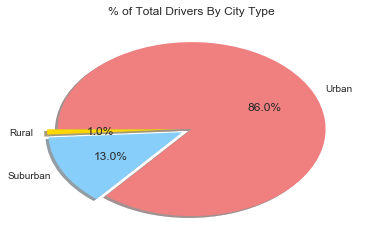
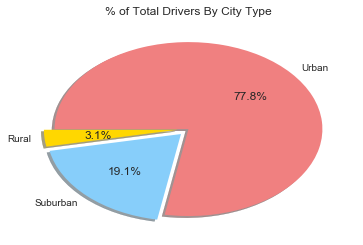
Updated file

diff --git a/Read.md b/Read.md
@@ -1,10 +1,13 @@
 
 # Pyber Ride Sharing
 
-Trend1: Urban cities have highest number of ride counts (68.4%) as well as driver counts (86%). Also these cities have the lowest
-average fare. 
-Trend2: A city in Rural area has the highest average dollar fare ($50) and the lowest number of rides (1).
-Trend3: higher number of drivers will increade the number of rides and will eventually reduce the fare.
+Trend1: Urban cities have highest number of ride counts (68.4%) as well as driver counts (77.8%). Also these cities have the lowest average fare. 
+
+Trend2: Rural area has the highest average dollar fare ($50) and the lowest number of rides (1).
+
+Trend3: Higher number of drivers will increase the number of rides and will eventually reduce the fare.
+
+Observation: City data set has a duplicate record (city of Port James) which needs to be merged and summed on driver count before merging with ride data.
 
 # Analysis
 
@@ -119,7 +122,83 @@ avg_fare = merged_data.groupby(['city_type','city','driver_count']).mean()['fare
 total_ride = merged_data.groupby(['city_type','city','driver_count']).nunique()['ride_id']
 # create a dataframe to have average fare and total ride count
 ride_share = pd.DataFrame({"Average Fare ($)" : avg_fare, "Total Number of Rides": total_ride}).reset_index()
+ride_share.head()
 ```
+
+
+
+
+<div>
+<style>
+    .dataframe thead tr:only-child th {
+        text-align: right;
+    }
+
+    .dataframe thead th {
+        text-align: left;
+    }
+
+    .dataframe tbody tr th {
+        vertical-align: top;
+    }
+</style>
+<table border="1" class="dataframe">
+  <thead>
+    <tr style="text-align: right;">
+      <th></th>
+      <th>city_type</th>
+      <th>city</th>
+      <th>driver_count</th>
+      <th>Average Fare ($)</th>
+      <th>Total Number of Rides</th>
+    </tr>
+  </thead>
+  <tbody>
+    <tr>
+      <th>0</th>
+      <td>Rural</td>
+      <td>East Leslie</td>
+      <td>9</td>
+      <td>33.660909</td>
+      <td>11</td>
+    </tr>
+    <tr>
+      <th>1</th>
+      <td>Rural</td>
+      <td>East Stephen</td>
+      <td>6</td>
+      <td>39.053000</td>
+      <td>10</td>
+    </tr>
+    <tr>
+      <th>2</th>
+      <td>Rural</td>
+      <td>East Troybury</td>
+      <td>3</td>
+      <td>33.244286</td>
+      <td>7</td>
+    </tr>
+    <tr>
+      <th>3</th>
+      <td>Rural</td>
+      <td>Erikport</td>
+      <td>3</td>
+      <td>30.043750</td>
+      <td>8</td>
+    </tr>
+    <tr>
+      <th>4</th>
+      <td>Rural</td>
+      <td>Hernandezshire</td>
+      <td>10</td>
+      <td>32.002222</td>
+      <td>9</td>
+    </tr>
+  </tbody>
+</table>
+</div>
+
+
 
 
 ```python
@@ -219,11 +298,8 @@ plt.show()
 
 
 ```python
-# Calculate the total ride count
-total_ride = merged_data.ride_id.count()
-# Grouping by city type to get the total ride by city type
-ride_count_type = merged_data.groupby('city_type').count()['ride_id']
-ride_type_percent = (ride_count_type/total_ride)*100
+# calculate the percentage of total rides per city type
+ride_type_percent = 100* (ride_share.groupby('city_type').sum()['Total Number of Rides']/ride_share['Total Number of Rides'].sum())
 # create the pie chart, defined explode, labels, colors and the percentage to show on the chart
 plt.pie(ride_type_percent,explode=explode,labels=city_type, colors=colors, autopct="%1.1f%%", shadow=True, startangle=140)
 plt.title("% of Total Rides By City Type")
@@ -239,9 +315,9 @@ plt.show()
 
 ```python
 # Calculate the total driver count
-total_driver = merged_data.driver_count.sum()
+total_driver = new_city_data.driver_count.sum()
 # Grouped by city type to get the total driver count by city type
-driver_count_type = merged_data.groupby('city_type').sum()['driver_count']
+driver_count_type = new_city_data.groupby('type').sum()['driver_count']
 driver_count_percent = 100*(driver_count_type/total_driver)
 # create the pie chart, defined explode, labels, colors and the percentage to show on the chart
 plt.pie(driver_count_percent,explode=explode,labels=city_type, colors=colors, autopct="%1.1f%%", shadow=True, startangle=180)
